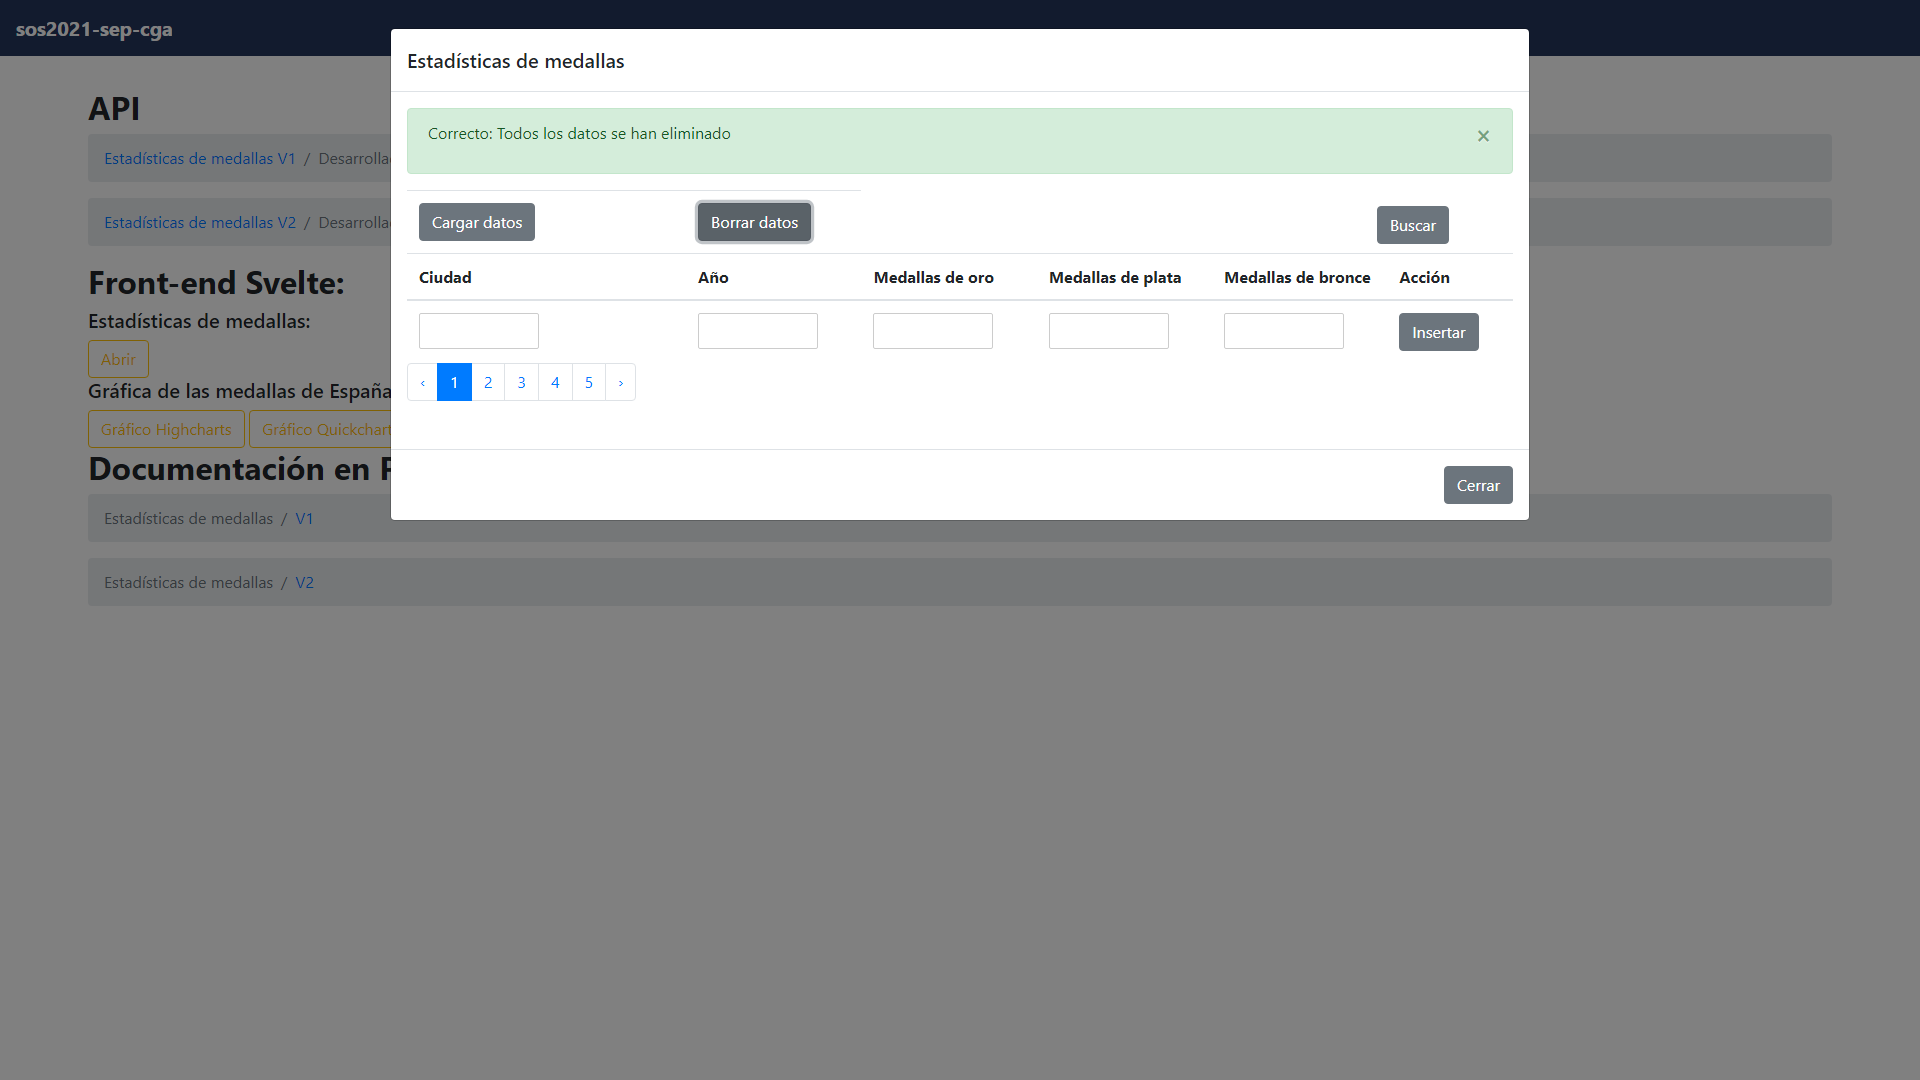
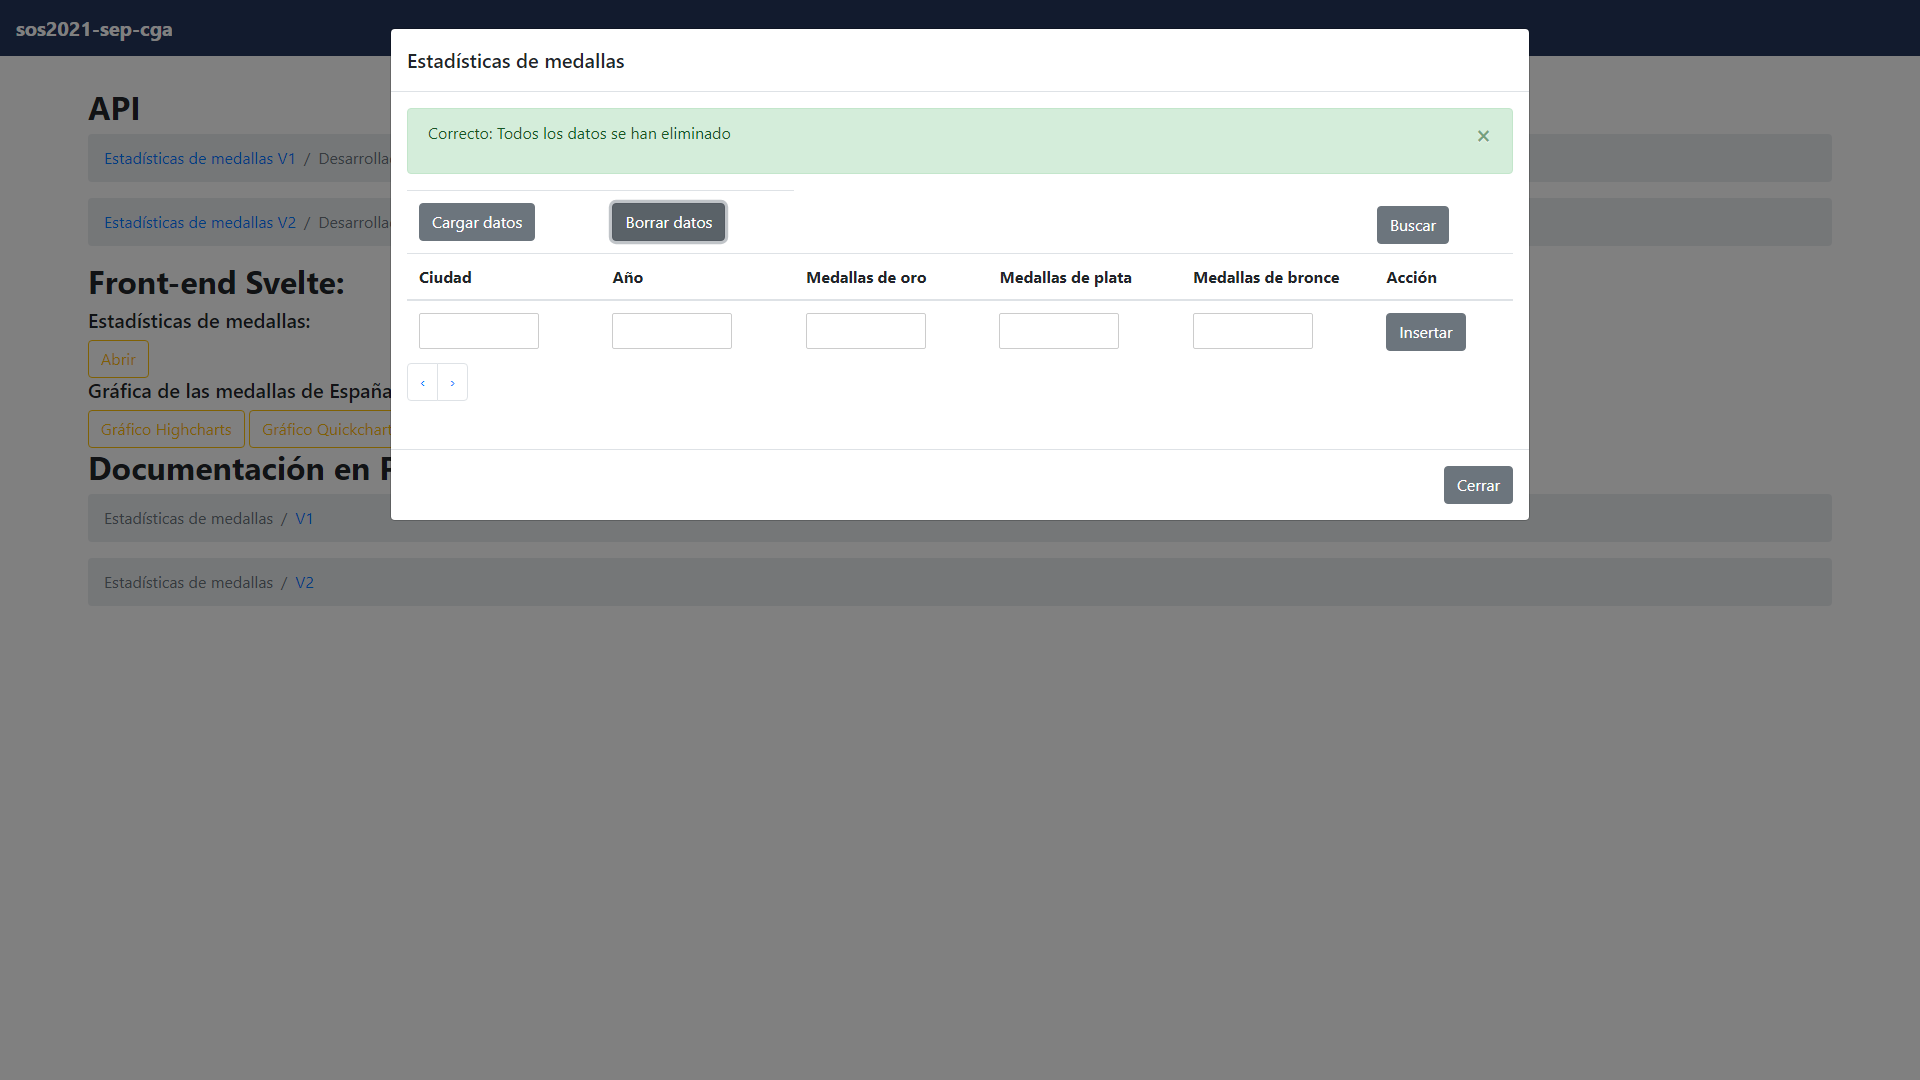
Video

Changed region(s): [[0.3125, 0.1833, 0.7812, 0.3361], [0.2188, 0.3361, 0.25, 0.3667]]

diff --git a/test/e2e.js b/test/e2e.js
@@ -54,7 +54,20 @@ if (!fs.existsSync("e2e_capturas")){
     console.log("-- Test 5 - Eliminar Dato Nuevo");
     await page.click("#eliminar_dato_nuevo", { waitUntil: "networkidle0" });
     await page.waitForTimeout(1000);
-    await page.screenshot({ path: url + 'Dato_Nuevo.png' });
+    await page.screenshot({ path: url + 'Dato_Nuevo_Eliminado.png' });
+
+    console.log("-- Test 6 - Buscar Datos");
+    await page.click("#btn-right");
+    await page.click("#filtroCiudad");
+    await page.focus('#datoFiltroCiudad');
+    await page.keyboard.type("Tokyo");
+    await page.waitForTimeout(1000);
+
+    await page.click("body > main > main > div > div.modal.show.d-block > div > div > div.modal-body > main > div.mt-3 > div > div.popover-body > ul > button.btn.btn-secondary");
+    
+
+    await page.screenshot({ path: url + 'DatosFiltrados.png'});
+
 
     await browser.close();
 })();

diff --git a/src/frontend/olimpic/OlimpicSv.svelte b/src/frontend/olimpic/OlimpicSv.svelte
@@ -244,7 +244,7 @@ let filterOlimpic= {
 			<Form>
   				<FormGroup>
    						 
-					<CustomInput type="checkbox" id="filtroCiudad" label="Ciudad" ><input bind:value="{filterOlimpic.city}"></CustomInput>
+					<CustomInput type="checkbox" id="filtroCiudad" label="Ciudad" ><input id="datofiltroCiudad" bind:value="{filterOlimpic.city}"></CustomInput>
 					<CustomInput type="checkbox" id="filtroAnyo" label="Año:" ><input type=number bind:value="{filterOlimpic.year}"></CustomInput>
 					<CustomInput type="checkbox" id="filtroOro" label="Medallas de oro" ><input type=number bind:value="{filterOlimpic.gold_medal}"></CustomInput>
 					<CustomInput type="checkbox" id="filtroPlata" label="Medallas de plata" ><input type=number bind:value="{filterOlimpic.silver_medal}"></CustomInput>
